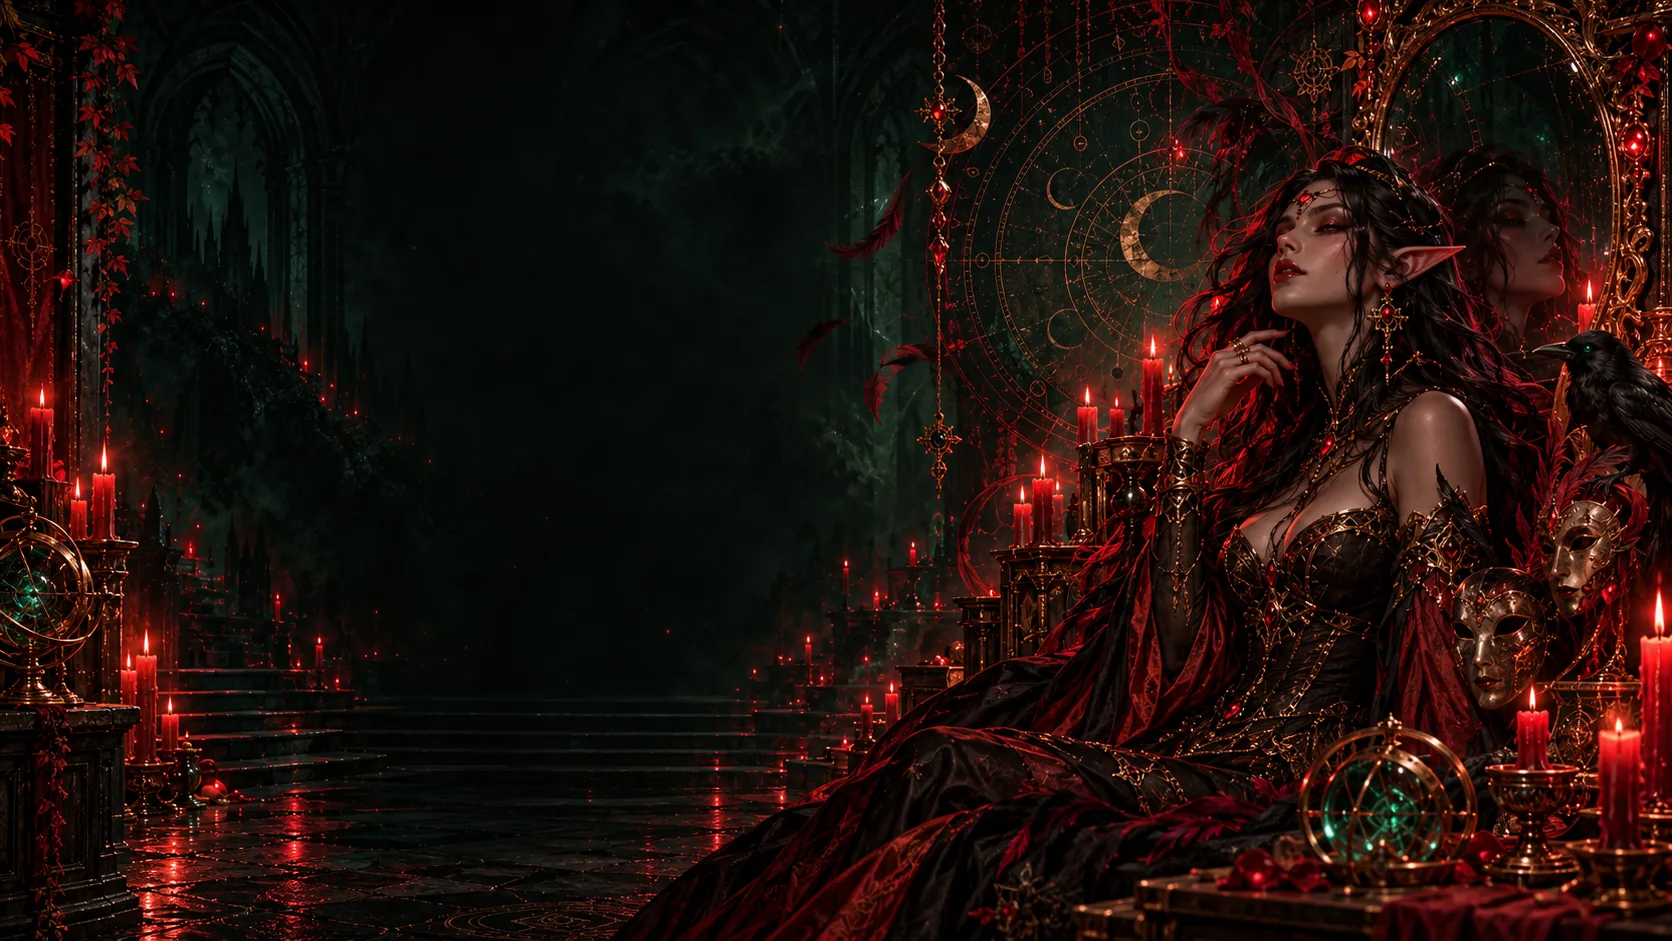
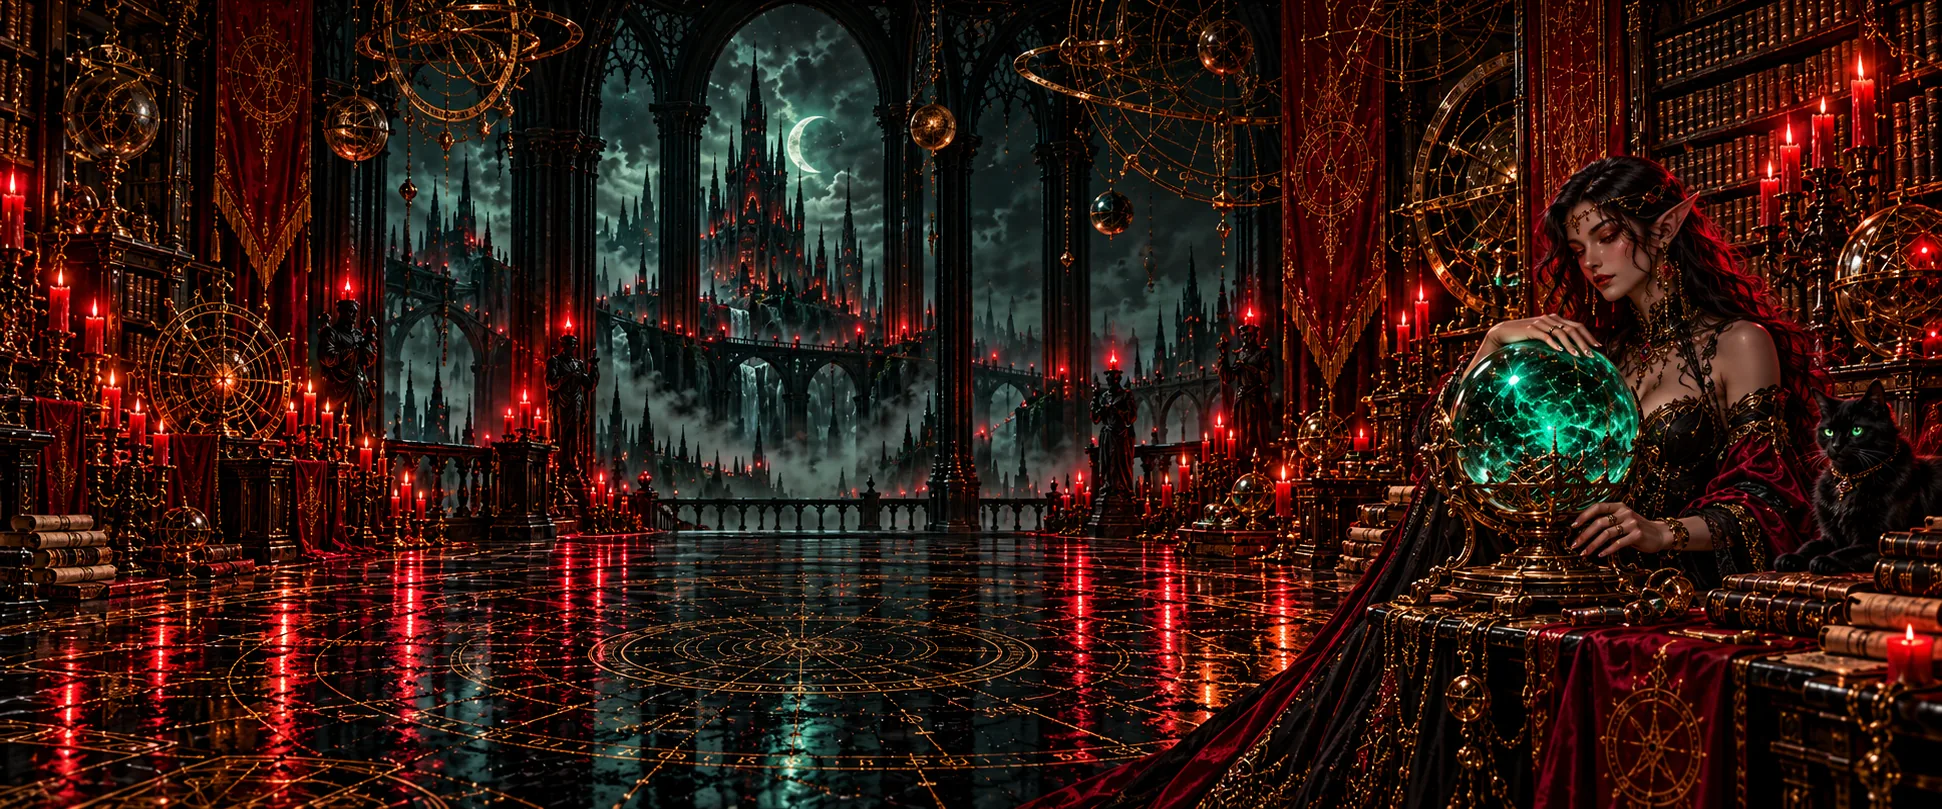
feat(web): 21:9 backdrop art — the scene fits the monitor instead of being cropped
The owner's primary is 3440x1440 (2.389) while the shipped arts were 16:9, so
object-cover magnified them 2.06x and threw away 26% of the height — that is what
read as 'too close' and 'pixelating'. The new masters are 1942x809 (2.400), so the
crop collapses to ~0.5% and the upscale to 1.78x without touching object-fit:
full-bleed cover is the contract, contain was rejected for its side bands.

gen-backgrounds.py carries the new mapping and the history of all three passes,
because none of it is derivable from ChatGPT timestamp filenames. Screenshots are
webp at 3440x1440 with 1:1 crops — a downscaled full shot cannot show pixelation.

Residual: 1.78x upscale remains, it is the masters' own ceiling; 1:1 on this
monitor needs source art >=3440px wide.

diff --git a/web/scripts/gen-backgrounds.py b/web/scripts/gen-backgrounds.py
@@ -1,12 +1,19 @@
 """Derive the six full-bleed backdrop arts from the owner's masters.
 
-The first pass shipped the arts at 900x506 while the masters are 1672x941, so a
-1440-wide viewport upscaled them ~1.6x and every screen except the console read as
-zoomed-in mush. Emitting at native master size removes the upscale on typical
-viewports; the masters themselves are untracked owner drops, this output is tracked.
+History of this mapping, because none of it is derivable from the filenames:
 
-Mapping was established by mean-abs-difference against the shipped arts, not by name.
-Re-run after replacing a master:
+* Pass 1 shipped 900x506 from 1672x941 masters — a 1.6x upscale that read as mush.
+* Pass 2 shipped the masters at native size, but they are 16:9 and the owner's primary
+  monitor is 3440x1440, so object-cover threw away 26% of the height at 2.06x.
+* Pass 3 (now) uses the 1942x809 masters: their 2.400 ratio sits almost on that
+  viewport's 2.389, so the crop collapses to ~0.5% and the upscale to 1.78x.
+
+Which scene lands on which screen is composition, not name: figure-forward shots to
+persona and memories, machinery to settings, the orb to scry, open architecture to
+stats, the widest overview to the console.
+
+Masters are untracked owner drops; this script's output is what ships. Re-run after
+replacing a master:
     python3 web/scripts/gen-backgrounds.py
 """
 from pathlib import Path
@@ -16,14 +23,15 @@ MASTERS = Path("design/assets/backgrounds")
 OUT = Path("web/public/design")
 QUALITY = 82
 
-# The app asks for these paths; the master files are named by ChatGPT export timestamp.
+_BATCH = "Изображение ChatGPT 21 окт. 2026 г., "
+
 PAIRS = {
-    "hero-console.webp": "Изображение ChatGPT 19 окт. 2026 г., 00_49_15-1.png",
-    "art-stats.webp": "Изображение ChatGPT 19 окт. 2026 г., 00_49_16-2.png",
-    "art-persona.webp": "Изображение ChatGPT 19 окт. 2026 г., 00_49_17-3.png",
-    "art-memories.webp": "Изображение ChatGPT 19 окт. 2026 г., 00_49_18-4.png",
-    "art-settings.webp": "Изображение ChatGPT 19 окт. 2026 г., 00_49_19-5.png",
-    "art-scry.webp": "Изображение ChatGPT 19 окт. 2026 г., 00_49_20-6.png",
+    "hero-console.webp": _BATCH + "01_30_13-1.png",
+    "art-memories.webp": _BATCH + "01_27_44-6.png",
+    "art-persona.webp": _BATCH + "01_30_14-2.png",
+    "art-stats.webp": _BATCH + "01_30_15-3.png",
+    "art-settings.webp": _BATCH + "01_27_40-2.png",
+    "art-scry.webp": _BATCH + "01_27_42-4.png",
 }
 
 
@@ -31,10 +39,14 @@ def main() -> None:
     OUT.mkdir(parents=True, exist_ok=True)
     for target, source in PAIRS.items():
         src = MASTERS / source
-        art = Image.open(src).convert("RGB")
+        if not src.exists():
+            raise SystemExit(f"master missing: {src}")
+        with Image.open(src) as handle:
+            art = handle.convert("RGB")
         dest = OUT / target
         art.save(dest, format="WEBP", quality=QUALITY, method=6)
-        print(f"{target}: {art.size[0]}x{art.size[1]} {dest.stat().st_size // 1024} KB")
+        w, h = art.size
+        print(f"{target}: {w}x{h} a={w / h:.3f} {dest.stat().st_size // 1024} KB")
 
 
 if __name__ == "__main__":
